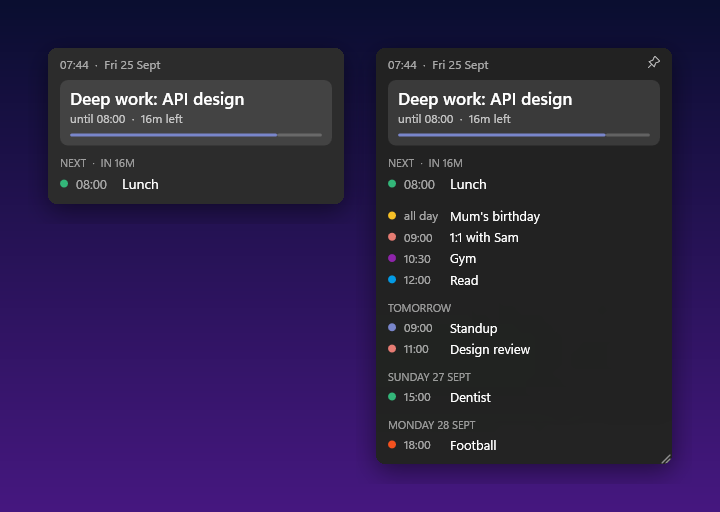
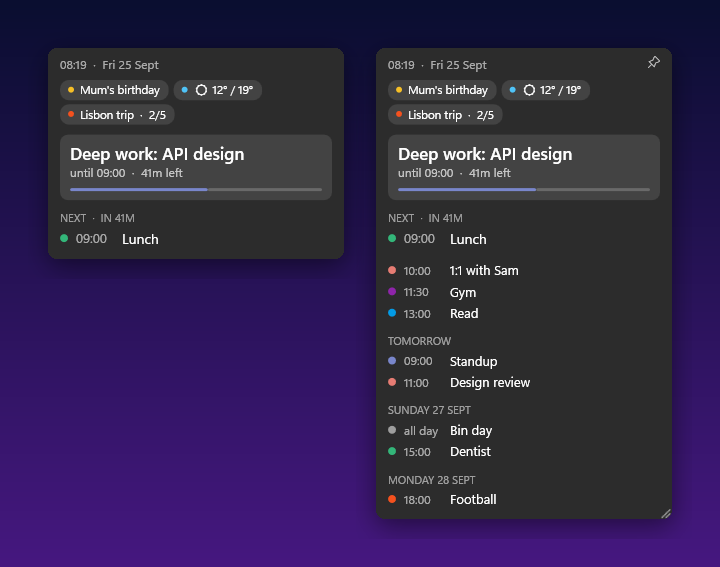
v1.2.0: all-day events as chips under the clock
Always visible by default (or on hover, or the old in-list rows). Multi-day
events show day n/m; future days' all-day events now appear in the agenda.

Claude-Session: https://claude.ai/code/session_012UbmowEVp5pr2fF7iwx4o9

Changed region(s): [[0.5194, 0.0625, 0.9472, 0.5625], [0.0611, 0.0625, 0.4889, 0.4688], [0.5194, 0.5938, 0.9472, 0.9375]]

diff --git a/MainWindow.xaml b/MainWindow.xaml
@@ -22,6 +22,7 @@
                                FontSize="12" Opacity="0" Cursor="Hand" ToolTip="Pin on top"/>
                     <TextBlock x:Name="Clock" Opacity="0.6" FontSize="12"/>
                 </DockPanel>
+                <WrapPanel x:Name="AllDayPanel" Margin="0,0,0,6"/>
                 <StackPanel x:Name="NowPanel"/>
                 <StackPanel x:Name="NextPanel" Margin="0,4,0,0"/>
                 <ScrollViewer x:Name="Scroll" Visibility="Collapsed" MaxHeight="320" Margin="0,10,0,0"

diff --git a/MainWindow.xaml.cs b/MainWindow.xaml.cs
@@ -187,7 +187,12 @@ public partial class MainWindow : Window
         var now = DateTime.Now;
         Clock.Text = $"{Time(now)}  ·  {now:ddd d MMM}";
         Pin.Text = s.Pinned ? "" : "";
-        NowPanel.Children.Clear(); NextPanel.Children.Clear(); Agenda.Children.Clear();
+        NowPanel.Children.Clear(); NextPanel.Children.Clear(); Agenda.Children.Clear(); AllDayPanel.Children.Clear();
+
+        var allDayToday = events.Where(e => e.AllDay && e.Start <= now && e.End > now).ToList();
+        if (s.AllDay != "List")
+            foreach (var e in allDayToday) AllDayPanel.Children.Add(Chip(e, now));
+        ShowAllDay();
 
         var horizon = DateTime.Today.AddDays(s.DaysAhead + 1);
         var timed = events.Where(e => !e.AllDay && e.End > now && e.Start < horizon).OrderBy(e => e.Start).ToList();
@@ -206,10 +211,12 @@ public partial class MainWindow : Window
             foreach (var e in next) NextPanel.Children.Add(Row(e, 14));
         }
 
-        // Expanded view: today's all-day items, then everything after "next", grouped by day.
-        foreach (var e in events.Where(e => e.AllDay && e.Start <= now && e.End > now))
-            Agenda.Children.Add(Row(e, 13));
-        var rest = upcoming.Skip(s.NextCount);
+        // Expanded view: everything after "next", grouped by day, with each future day's all-day items first.
+        if (s.AllDay == "List")
+            foreach (var e in allDayToday) Agenda.Children.Add(Row(e, 13));
+        var laterAllDay = events.Where(e => e.AllDay && e.Start.Date > now.Date && e.Start < horizon);
+        var rest = upcoming.Skip(s.NextCount).Concat(laterAllDay)
+            .OrderBy(e => e.Start.Date).ThenBy(e => !e.AllDay).ThenBy(e => e.Start).AsEnumerable();
         if (s.MaxEvents > 0) rest = rest.Take(s.MaxEvents);
         DateTime day = now.Date;
         foreach (var e in rest)
@@ -255,6 +262,20 @@ public partial class MainWindow : Window
         return new Border { Background = card, CornerRadius = new(8), Padding = new(10, 7, 10, 9), Margin = new(0, 0, 0, 6), Child = sp };
     }
 
+    /// A compact pill for an all-day event; multi-day ones say which day you're on.
+    UIElement Chip(Ev e, DateTime now)
+    {
+        var days = (int)Math.Round((e.End.Date - e.Start.Date).TotalDays);
+        var label = days > 1 ? $"{e.Title}  ·  {(now.Date - e.Start.Date).Days + 1}/{days}" : e.Title;
+        var sp = new StackPanel { Orientation = Orientation.Horizontal };
+        sp.Children.Add(new Ellipse { Width = 6, Height = 6, Fill = B(e.Color), Margin = new(0, 0, 6, 0), VerticalAlignment = VerticalAlignment.Center });
+        sp.Children.Add(new TextBlock { Text = label, FontSize = 11.5, TextTrimming = TextTrimming.CharacterEllipsis, MaxWidth = s.Width - 60 });
+        return new Border { Background = card, CornerRadius = new(9), Padding = new(8, 2, 9, 3), Margin = new(0, 0, 5, 4), Child = sp, ToolTip = label };
+    }
+
+    void ShowAllDay() => AllDayPanel.Visibility =
+        AllDayPanel.Children.Count > 0 && (s.AllDay == "Always" || s.AllDay == "Hover" && expanded) ? Visibility.Visible : Visibility.Collapsed;
+
     UIElement Row(Ev e, double size)
     {
         var dp = new DockPanel { Margin = new(0, 2, 0, 2) };
@@ -282,6 +303,7 @@ public partial class MainWindow : Window
     {
         expanded = true;
         Scroll.Visibility = Visibility.Visible;
+        ShowAllDay();
         Pin.Opacity = 0.7;
         Grip.Opacity = 0.5;
         FadeTo(1);
@@ -297,6 +319,7 @@ public partial class MainWindow : Window
     {
         expanded = false;
         Scroll.Visibility = Visibility.Collapsed;
+        ShowAllDay();
         Scroll.ScrollToTop();
         Pin.Opacity = 0;
         Grip.Opacity = 0;

diff --git a/MainWindow.Menu.cs b/MainWindow.Menu.cs
@@ -59,6 +59,7 @@ public partial class MainWindow
         m.Items.Add(Choice("Text size", new[] { 0.85, 1.0, 1.15, 1.3, 1.5 }.Select(o => ($"{o:P0}", o)), s.Scale, v => s.Scale = v));
         m.Items.Add(new Separator());
 
+        m.Items.Add(Choice("All-day events", new[] { ("Chips, always visible", "Always"), ("Chips, on hover", "Hover"), ("In the list", "List") }, s.AllDay, v => s.AllDay = v));
         m.Items.Add(Choice("Up next", new[] { 1, 2, 3 }.Select(n => ($"{n}", n)), s.NextCount, v => s.NextCount = v));
         m.Items.Add(Choice("Events when expanded", new[] { ("5", 5), ("10", 10), ("20", 20), ("All", 0) }, s.MaxEvents, v => s.MaxEvents = v));
         m.Items.Add(Choice("Look ahead", new[] { ("Today", 0), ("3 days", 3), ("1 week", 7), ("2 weeks", 14) }, s.DaysAhead, v =>

diff --git a/Demo.cs b/Demo.cs
@@ -11,6 +11,9 @@ static class Demo
         return new()
         {
             new("Mum's birthday", now.Date, now.Date.AddDays(1), true, "#F6BF26"),
+            new("☀ 12° / 19°", now.Date, now.Date.AddDays(1), true, "#4FC3F7"),
+            new("Lisbon trip", now.Date.AddDays(-1), now.Date.AddDays(4), true, "#F4511E"),
+            new("Bin day", now.Date.AddDays(2), now.Date.AddDays(3), true, "#9E9E9E"),
             E("Deep work: API design", -0.5, 1.5, "#7986CB"),
             E("Lunch", 1, 1, "#33B679"),
             E("1:1 with Sam", 2, 0.5, "#E67C73"),

diff --git a/Settings.cs b/Settings.cs
@@ -31,6 +31,7 @@ public class Settings
 
     // Content
     public List<string>? Calendars { get; set; }    // null = whatever is ticked in Google Calendar
+    public string AllDay { get; set; } = "Always";   // today's all-day events as chips: Always | Hover | List (old style, in the agenda only)
     public int NextCount { get; set; } = 1;         // upcoming events shown when collapsed
     public int MaxEvents { get; set; } = 10;        // events in the expanded list, 0 = all
     public int DaysAhead { get; set; } = 7;         // 0 = today only

diff --git a/docs/settings.md b/docs/settings.md
@@ -16,6 +16,7 @@ Everything in the right-click menu is saved to `settings.json` next to `Glance.e
 | `ShowInTaskbar` | `true` | `false` also hides it from Alt+Tab |
 | `Hotkey` | `"Win+Shift+G"` | Global hide/show shortcut. Modifiers are `Ctrl`, `Alt`, `Shift` and `Win`, plus any key name (`G`, `Space`, `F9`, `1`). `""` means none. If another app already owns it, the widget says so and you can pick another one |
 | `Calendars` | `null` | Calendar IDs to show. `null` means the ones ticked in Google Calendar |
+| `AllDay` | `"Always"` | Today's all-day events: `Always` (chips under the clock), `Hover` (chips only while expanded) or `List` (rows at the top of the agenda) |
 | `NextCount` | `1` | Upcoming events shown when collapsed |
 | `MaxEvents` | `10` | Events in the expanded list. `0` means all |
 | `DaysAhead` | `7` | How far ahead to look. `0` means today only |

diff --git a/README.md b/README.md
@@ -24,6 +24,7 @@
 ## Features
 
 - **Now and next at a glance.** A card for the current event with a time-left bar, plus the next event and a countdown.
+- **All-day events as chips** under the clock (weather, birthdays, trips with "day 2/5"), visible without hovering.
 - **Hover to expand** into a scrollable agenda for the days ahead. When you move away it shrinks back and the scroll resets.
 - **Fades when idle.** It's see-through while you work and turns solid when you hover it.
 - **Acrylic glass** in 7 themes, three glass strengths and any custom colour.
